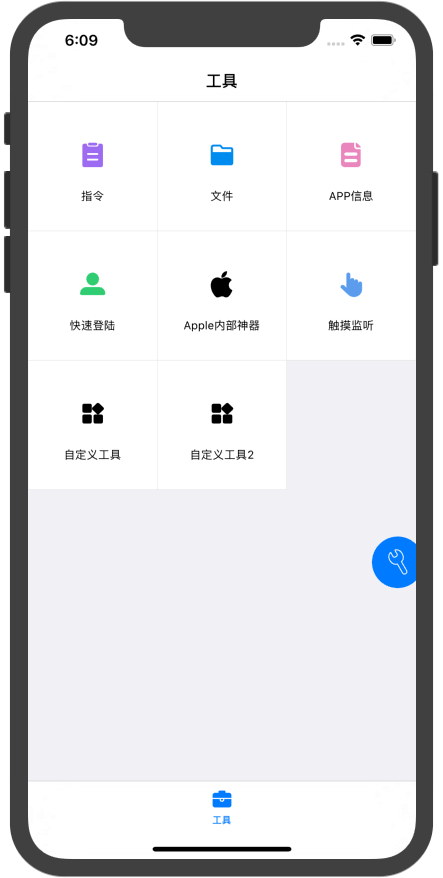
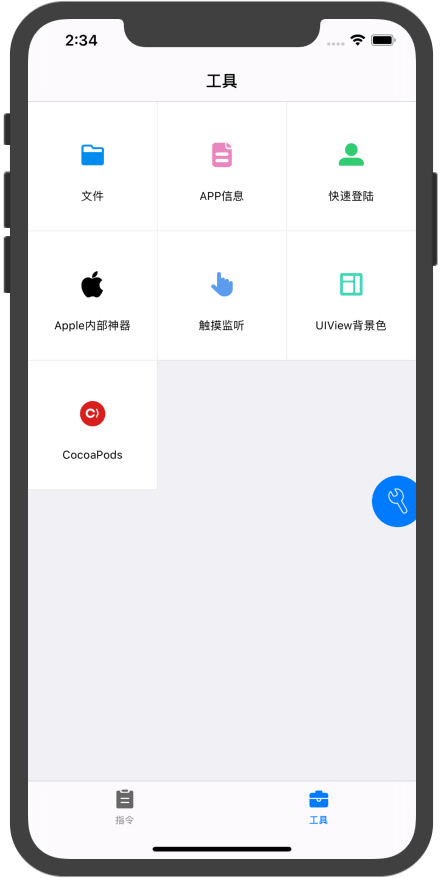
修改 readme

diff --git a/Example/Debugo-Example-ObjectiveC/Debugo-Example-ObjectiveC/AppDelegate.m b/Example/Debugo-Example-ObjectiveC/Debugo-Example-ObjectiveC/AppDelegate.m
@@ -28,8 +28,8 @@
         [configuration addCustomPlugin:CustomPlugin2.class];
         
         /// 将部分工具放到 tabBar, 默认会将指令放到 tabBar
-        //        [configuration putPluginsToTabBar:nil];
-        //        [configuration putPluginsToTabBar:@[DGActionPlugin.class, DGFilePlugin.class, CustomPlugin2.class]];
+        // [configuration putPluginsToTabBar:nil];
+        // [configuration putPluginsToTabBar:@[DGActionPlugin.class, DGFilePlugin.class, CustomPlugin2.class]];
         
         /// 设置悬浮球的长按事件
         [configuration setupBubbleLongPressAction:^{

diff --git a/docs/build-info.md b/docs/build-info.md
@@ -4,7 +4,8 @@
 
 * 获取安装包 build 时间
 * 获取 build 安装包的电脑 hostname、UUID
-* 获取当前代码的 git 分支以及最后一次 commit 信息等
+* 获取当前代码的 git 分支以及最后一次 commit 信息
+* 获取工程依赖的 CocoaPods 库
 
 那么你需要添加脚本到工程中，具体如下
 
